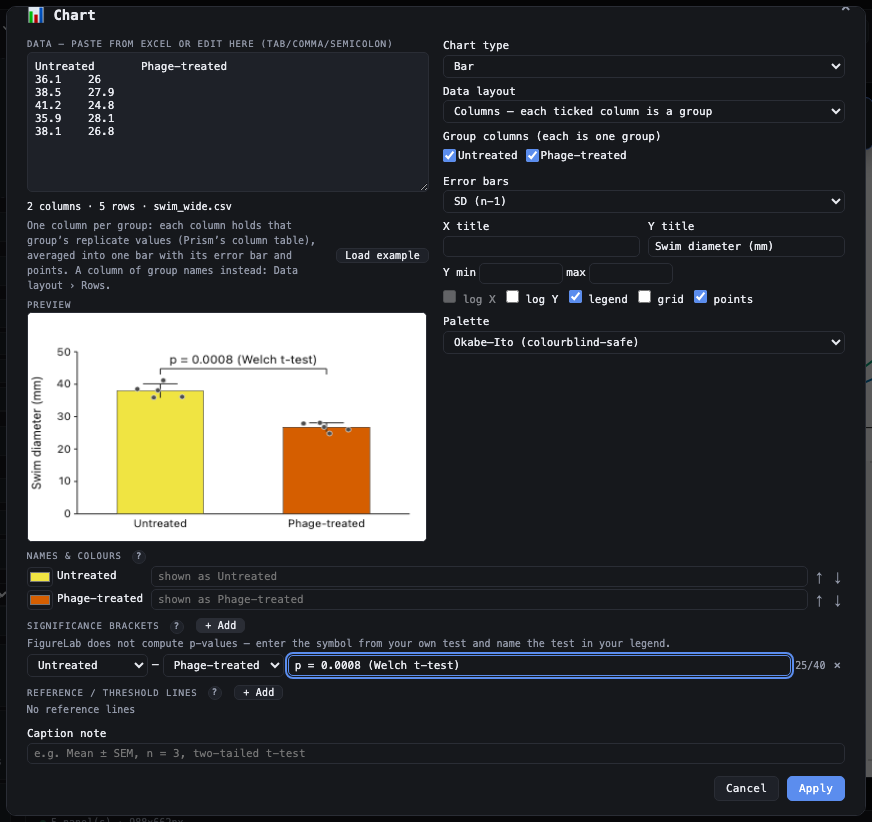
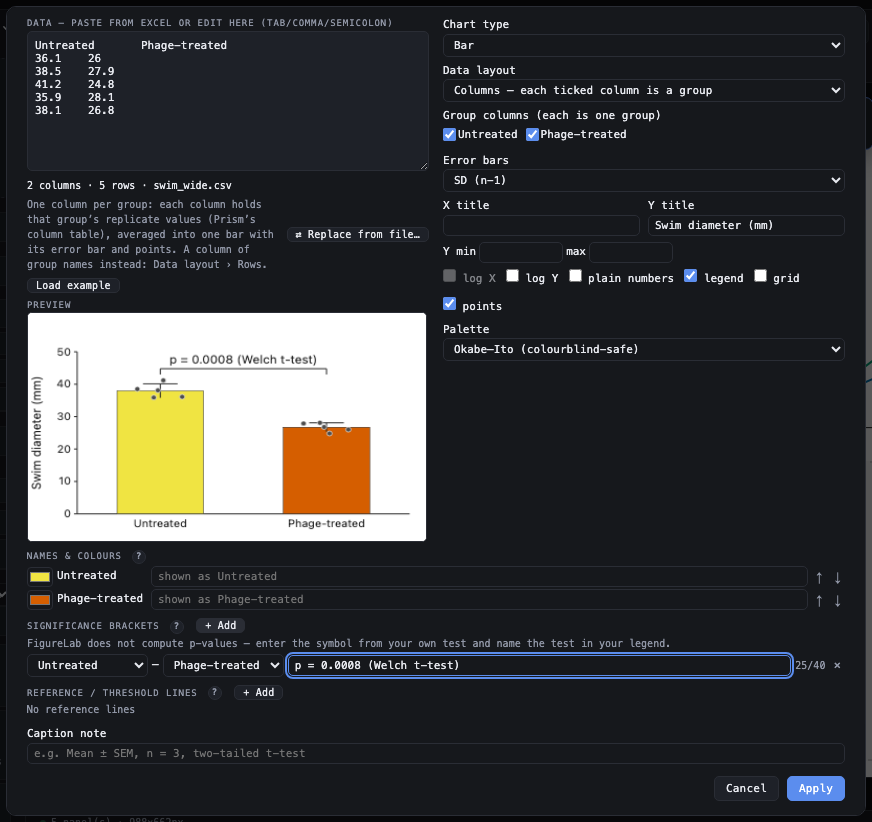
Charts guide, round 5: brackets follow their groups and can join two bars of one group, Tecan/Gen5 exports as written, zeros on a log axis and plain numbers, Chart room's button, more replicate headers, the font in paper_style.json

diff --git a/docs/guides/verify/charts.verify.js b/docs/guides/verify/charts.verify.js
@@ -286,6 +286,8 @@ const TRUTH = {
     await L.openSection(T, 'Export');
     const key = await p.evaluate(() => document.getElementById('key-text') ? document.getElementById('key-text').value || document.getElementById('key-text').textContent : '');
     expect(/WT \(blue, filled bars\)/.test(key) && (key.match(/ΔfliC/g) || []).length === 1, key);
+    // ux5 (charts5-10): the key follows the order of the chart last reordered (dfliC moved first in N0)
+    expect(key.indexOf('ΔfliC') < key.indexOf('WT ('), 'key order: ' + key);
     return key.slice(0, 160) + '…';
   });
   await step(T, 'N3 MOI_0 (panel B) and "MOI 0 mean" (panel D) share one colour and one key row; shown as "MOI 0" in B the row reads MOI 0', async () => {
@@ -338,7 +340,7 @@ const TRUTH = {
     await h.scrollIntoViewIfNeeded();
     const b1 = await h.boundingBox(), b2 = await btn(T, '⬇ Save as paper_style.json').boundingBox();
     await L.shot(T, 'charts-sample-colours', { x: b1.x - 6, y: b1.y - 6, width: 296, height: b2.y + b2.height - b1.y + 12 }, { doc: true });
-    return `${Object.keys(pal).length} names; toast "${t}"`;
+    return `${Object.keys(pal).length} names; font_family ${JSON.stringify(js.settings.font_family)}; toast "${t}"`;
   });
   await step(T, 'S2 × beside WT puts it back on the palette', async () => {
     await p.locator('#sample-colours-list [data-name="WT"] button', { hasText: '×' }).click();
@@ -669,6 +671,197 @@ const TRUTH = {
     const a = await drawn('A');
     expect(a.dfliC && a.dfliC.name === 'Δ*fliC*' && a.dfliC.color.toLowerCase() === saved.sample_palette.dfliC.toLowerCase(), JSON.stringify(a) + ' | ' + JSON.stringify(saved));
     return `dfliC drawn as "${a.dfliC.name}" ${a.dfliC.color}; summary "${sum.slice(0, 300)}"`;
+  });
+
+  // ---- ux5: round-5 steps (after S4: a new figure, chart A = cfu_24h.csv with the lab style) ----
+  const sigSec = () => chart.locator('.sec-lbl', { hasText: 'Significance brackets' }).locator('xpath=..');
+  const sigMenus = () => chart.locator('#chart-sig-list > div').evaluateAll(R => R.map(r => [...r.querySelectorAll('select')].map(s => s.selectedOptions[0] ? s.selectedOptions[0].text : '')));
+  const captionNow = () => p.evaluate(() => { images.forEach(im => { if (im && im.type === 'chart') { im._chartKey = ''; im._chartStat = null; } }); render(); return _captionText(); });
+  const openPanel = async (label) => { const pt = await panelPoint(label); await p.mouse.dblclick(pt.x, pt.y); await chart.waitFor({ state: 'visible' }); await p.waitForTimeout(300); };
+
+  await step(T, 'R5.1 Task 5/6: a bracket WT – dmotA, then ↑ on dmotA in Names & colours: the bracket keeps WT and dmotA (menus and caption)', async () => {
+    await openPanel('A');
+    await sigSec().getByRole('button', { name: '+ Add' }).click(); await p.waitForTimeout(200);
+    const row = chart.locator('#chart-sig-list > div').last();
+    await row.locator('select').nth(0).selectOption({ label: 'WT' });
+    await row.locator('select').nth(1).selectOption({ label: 'dmotA' });
+    await row.locator('input[type=text]').fill('p = 0.03');
+    await apply();
+    await openPanel('A');
+    const order0 = await chart.locator('#chart-names [data-key]').evaluateAll(r => r.map(e => e.dataset.key));
+    await chart.locator('#chart-names [data-key="dmotA"] button', { hasText: '↑' }).click(); await p.waitForTimeout(300);
+    const order1 = await chart.locator('#chart-names [data-key]').evaluateAll(r => r.map(e => e.dataset.key));
+    const menus = await sigMenus();
+    await apply();
+    const cap = await captionNow();
+    expect(order1.join() !== order0.join() && menus.length === 1 && menus[0].join('|') === 'WT|dmotA' && /Brackets: p = 0\.03 \(WT vs dmotA\)/.test(cap), JSON.stringify({ order0, order1, menus }) + ' | ' + cap);
+    return `order ${order0.join(', ')} → ${order1.join(', ')}; menus ${menus[0].join(' – ')}; caption "${(cap.match(/Brackets: [^,]*\)/) || [''])[0]}"`;
+  });
+
+  await step(T, 'R5.2 A bracket whose group is gone: dmotA\'s rows taken out of the data box → "⚠ Not drawn: dmotA is no longer in the chart"; Cancel', async () => {
+    await openPanel('A');
+    const ta = chart.locator('#chart-data-ta');
+    const t0 = await ta.inputValue();
+    await ta.fill(t0.split('\n').filter(l => !/^dmotA[\t,]/.test(l)).join('\n')); await p.waitForTimeout(800);
+    const why = (await chart.locator('#chart-sig-list').innerText()).replace(/\s+/g, ' ');
+    await chart.getByRole('button', { name: 'Cancel' }).click(); await p.waitForTimeout(300);
+    expect(/⚠ Not drawn: dmotA is no longer in the chart — pick its groups again, or remove it\./.test(why), why);
+    return why.slice(why.indexOf('⚠'));
+  });
+
+  await step(T, 'R5.3 A bracket within one group: grouped bar (serum × strain), the menus list "NHS · PA14"; NHS · PA14 – NHS · dlasR is captioned', async () => {
+    CSV['serum_killing.csv'] = 'serum,strain,replicate,survival_pct\n' + [['NHS', { PA14: [64.3, 59.8, 54.3], dlasR: [21.0, 25.4, 23.1] }], ['HI-NHS', { PA14: [98.2, 101.5, 96.7], dlasR: [97.0, 99.1, 102.3] }]]
+      .flatMap(([s, o]) => Object.entries(o).flatMap(([st, v]) => v.map((x, i) => `${s},${st},${i + 1},${x}`))).join('\n') + '\n';
+    const d = await importCsv('serum_killing.csv');
+    expect(d.kind === 'Grouped bar' && d.x === 'serum' && d.series === 'strain', JSON.stringify(d));
+    await sigSec().getByRole('button', { name: '+ Add' }).click(); await p.waitForTimeout(200);
+    const row = chart.locator('#chart-sig-list > div').last();
+    const opts = await row.locator('select').first().locator('option').allInnerTexts();
+    expect(['NHS', 'NHS · PA14', 'NHS · dlasR', 'HI-NHS', 'HI-NHS · PA14'].every(o => opts.includes(o)), opts.join(' | '));
+    await row.locator('select').nth(0).selectOption({ label: 'NHS · PA14' });
+    await row.locator('select').nth(1).selectOption({ label: 'NHS · dlasR' });
+    await row.locator('input[type=text]').fill('p = 0.01');
+    await apply();
+    const cap = await captionNow();
+    expect(/Brackets: p = 0\.01 \(NHS · PA14 vs NHS · dlasR\)/.test(cap), cap);
+    return `menus: ${opts.join(', ')}; caption "Brackets: p = 0.01 (NHS · PA14 vs NHS · dlasR)…"`;
+  });
+
+  await step(T, 'R5.4 Zeros on a log axis: dmexB 0, 100, 0 at 8 h is a mean of 33.3 with n = 3; an all-zero 24 h point is drawn at the floor, open, and said', async () => {
+    CSV['timekill_zeros.csv'] = 'time_h,PA14_rep1,PA14_rep2,PA14_rep3,dmexB_rep1,dmexB_rep2,dmexB_rep3\n0,4.3E+06,2.5E+06,3.9E+06,3.4E+06,3.0E+06,5.1E+06\n2,6.0E+04,1.3E+05,8.1E+04,7.1E+03,6.1E+03,1.0E+04\n4,5.7E+03,7.7E+03,5.1E+03,3.9E+02,5.7E+02,4.2E+02\n8,8.0E+02,9.0E+02,3.6E+02,0,1.00E+02,0\n24,6.0E+03,2.7E+03,5.8E+03,0,0,0\n';
+    const d = await importCsv('timekill_zeros.csv');
+    expect(d.kind === 'Line' && /\[ticked\]/.test(d.rep), JSON.stringify(d));
+    await chart.getByLabel('log Y').check(); await p.waitForTimeout(300);
+    await apply();
+    const label = (await charts()).pop().label;
+    const r = await p.evaluate((label) => { const el = images.find(im => im && im.label === label); el._chartKey = ''; el._chartStat = null;
+      const s = _chartStatsCached(el).series.find(q => /dmexB/.test(q.name || q.key)); const T = [];
+      _chartDraw(el, { rect() {}, poly() {}, line() {}, circle() {}, text(t) { T.push(String(t)); } });
+      return { p8: s.points.find(q => q.x === 8), p24: s.points.find(q => q.x === 24), note: T.find(t => /axis floor/.test(t)) || '', omitted: T.some(t => /omitted/.test(t)) }; }, label);
+    const cap = await captionNow();
+    expect(Math.abs(r.p8.y - 100 / 3) < 1e-9 && r.p8.n === 3 && r.p24.y === 0 && r.p24.n === 3, JSON.stringify(r));
+    expect(/^○ 1 mean ≤ 0 drawn at the axis floor \(.+\), open$/.test(r.note) && !r.omitted, 'note: ' + r.note);
+    expect(/On the log axis, 1 mean ≤ 0 is drawn at the axis floor \([^)]+\) as open marks; means and n include them\./.test(cap), cap);
+    return `8 h: ${r.p8.y.toFixed(1)} (n = ${r.p8.n}); 24 h: ${r.p24.y} (n = ${r.p24.n}); chart note "${r.note}"; caption "${(cap.match(/On the log axis[^.]*\./) || [''])[0]}"`;
+  });
+
+  await step(T, 'R5.5 "plain numbers" beside log Y: the log axis reads 1, 10, 100 … with no 10ⁿ', async () => {
+    const label = (await charts()).pop().label;
+    await openPanel(label);
+    await chart.getByLabel('plain numbers').check(); await p.waitForTimeout(300);
+    await apply();
+    const labs = await p.evaluate((label) => { const el = images.find(im => im && im.label === label); el._chartKey = ''; const T = []; _chartDraw(el, { rect() {}, line() {}, poly() {}, circle() {}, text(s, x, y, f, c, a) { if (a === 'right') T.push(String(s)); } }); return T; }, label);
+    expect(labs.some(l => /^1\s000\s000$/.test(l)) && !labs.some(l => /\^\{|×10|[⁰¹²³⁴⁵⁶⁷⁸⁹]/.test(l)), labs.join(' | '));
+    return 'y labels ' + labs.join(', ');
+  });
+
+  await step(T, 'R5.6 A plate reader\'s export as the reader wrote it: a 26-line Tecan header, wells in rows, Time [s] and Cycle Nr. → a line of every well against Time (h)', async () => {
+    const head = ['Application: Tecan i-control,,', 'Tecan i-control ,3.9.1.0,', 'Device: infinite 200Pro,Serial number: 1408003921,', 'Firmware: V_3.37_07/12_Infinite (Jul 13 2012/10.49.58),', 'MAI, V_3.37_07/12_Infinite (Jul 13 2012/10.49.58),', ',,',
+      'Date:,11/12/2026,', 'Time:,9:14:22 AM,', ',,', 'System,TECAN-PC,', 'User,TECAN-PC\\Lab,', 'Plate,Greiner 96 Flat Bottom Transparent Polystyrene,', 'Plate-ID (Stacker),,', ',,',
+      'Shaking (Orbital) Duration:,600,s', 'Shaking (Orbital) Amplitude:,3,mm', 'Kinetic Measurement,,', 'Kinetic Cycles:,25,', 'Interval Time:,00:15:00,', 'Mode,Absorbance,', 'Measurement Wavelength,600,nm', 'Bandwidth,9,nm', 'Number of Flashes,25,', 'Settle Time,0,ms', 'Start Time:,11/12/2026 9:14:22 AM,', ',,'];
+    const n = 25, t = [...Array(n)].map((_, i) => (i * 900 + (i ? 0.4 : 0)).toFixed(1).replace(/\.0$/, ''));
+    const wells = ['A1', 'A2', 'A3', 'B1', 'B2', 'B3', 'C1', 'C2', 'C3', 'D1', 'D2', 'D3'];
+    const od = (w, i) => (w[0] === 'A' ? 0.09 : 0.1 * Math.exp((w[0] === 'B' ? 0.5 : w[0] === 'C' ? 0.35 : 0.2) * i / 4)).toFixed(4);
+    CSV['tecan_OD600_rows.csv'] = [...head, 'Cycle Nr.,' + t.map((_, i) => i + 1).join(','), 'Time [s],' + t.join(','), 'Temp. [°C],' + t.map(() => '37.1').join(','),
+      ...wells.map(w => w + ',' + t.map((_, i) => od(w, i)).join(',')), ',,', 'End Time:,11/12/2026 3:14:22 PM,'].join('\n') + '\n';
+    const d = await importCsv('tecan_OD600_rows.csv');
+    const info = (await chart.locator('#chart-delim-info').innerText()).replace(/\s+/g, ' ');
+    const plate = (await chart.locator('#chart-wells-wrap').innerText()).replace(/\s+/g, ' ');
+    const xt = await chart.locator('#chart-xtitle').inputValue();
+    const xs = await p.evaluate(() => _chartDraft.data.rows.map(r => r[_chartDraft.mapping.xCol]));
+    expect(d.kind === 'Line' && d.x === 'Time (h)' && xt === 'Time (h)' && d.ycols.join() === wells.join(), JSON.stringify(d) + ' X title ' + xt);
+    expect(/26 instrument lines above the table skipped \(it starts at “Cycle Nr\.”\)/.test(info) && /the wells ran down the rows: turned to one column per well/.test(info)
+      && /1 line below it \(“End Time”\) left out/.test(info) && /Time \[s\] read as seconds, in hours \(Time \(h\)\)/.test(info), info);
+    expect(/Plate wells \(12: A1–D3\)/.test(plate), plate);
+    expect(xs.length === n && xs[0] === 0 && Math.abs(xs[n - 1] - 21600.4 / 3600) < 1e-6, 'x: ' + xs.slice(-2));
+    await apply();
+    return `"${info}"; X ${d.x} (0 → ${xs[n - 1].toFixed(3)} h); Y ${d.ycols.length} wells, no Cycle Nr. or Temp.`;
+  });
+
+  await step(T, 'R5.7 Replicate headers Culture1–3 average into one bar per condition; a file named swim_diameters_mm.csv gives the Y title "swim diameters (mm)"', async () => {
+    CSV['psd95_puncta.csv'] = 'Condition,Culture1,Culture2,Culture3\nshCtrl,9.8,10.04,9.59\nshNlgn1,4.75,4.92,4.71\nRescue,8.94,9.91,8.56\n';
+    const d = await importCsv('psd95_puncta.csv');
+    expect(d.kind === 'Bar' && d.x === 'Condition' && /Average replicate columns into one series each \(Mean: 3\) \[ticked\]/.test(d.rep), JSON.stringify(d));
+    await apply();
+    const label = (await charts()).pop().label;
+    const g = await p.evaluate((label) => { const el = images.find(im => im && im.label === label); el._chartKey = ''; el._chartStat = null; return _chartStatsCached(el).groups.map(q => [q.key, q.bars[0].value, q.bars[0].n]); }, label);
+    expect(Math.abs(g[0][1] - mean([9.8, 10.04, 9.59])) < 1e-9 && g[0][2] === 3, JSON.stringify(g));
+    CSV['swim_diameters_mm.csv'] = 'Strain,Rep 1,Rep 2,Rep 3\r\nWT,41.5,44.0,39.5\r\ndfliC,6.0,5.5,6.5\r\ndfliC + pfliC,33.0,30.5,35.0\r\n,,,\r\n';
+    const d2 = await importCsv('swim_diameters_mm.csv');
+    expect(d2.kind === 'Bar' && d2.ytitle === 'swim diameters (mm)' && /\[ticked\]/.test(d2.rep), JSON.stringify(d2));
+    await apply();
+    return `${d.rep}; shCtrl ${g[0][1].toFixed(3)} (n = ${g[0][2]}); swim_diameters_mm.csv: Y title "${d2.ytitle}"`;
+  });
+
+  await step(T, 'R5.8 ⇄ Replace from file… in the Chart dialog reads a new file into the chart; the caption names the new file', async () => {
+    CSV['swim_diameters_mm_v2.csv'] = 'Strain,Rep 1,Rep 2,Rep 3\nWT,42.0,43.5,40.5\ndfliC,6.5,5.0,6.0\ndfliC + pfliC,34.0,31.5,33.0\n';
+    const label = (await charts()).pop().label;
+    await openPanel(label);
+    await L.pickFiles(T, chart.getByRole('button', { name: '⇄ Replace from file…' }), [file('swim_diameters_mm_v2.csv')]);
+    await p.waitForTimeout(600);
+    const info = await chart.locator('#chart-delim-info').innerText();
+    await apply();
+    const cap = await captionNow();
+    expect(/swim_diameters_mm_v2\.csv/.test(info) && /Data from swim_diameters_mm_v2\.csv\./.test(cap) && !/edited in FigureLab/.test(cap), info + ' | ' + cap);
+    return `dialog "${info.replace(/\s+/g, ' ')}"; caption "Data from swim_diameters_mm_v2.csv."`;
+  });
+
+  await step(T, 'R5.9 A squeezed chart (4 pictures + a chart in a 3 × 2 grid, ⌘K asm, printed width 83 mm): Chart room names it, and its "Give E a … cell" button gives it the cell and the row it needs', async () => {
+    await btn(T, '✕ New').click(); await btn(T, /^Confirm/).click(); await p.waitForTimeout(500);
+    const pics = [];
+    for (let i = 0; i < 4; i++) pics.push(await L.canvasImage(T, path.join(inp, `photo_${i}.png`), 400, 300, (c, w, h, rnd) => { c.fillStyle = '#ddd'; c.fillRect(0, 0, w, h); for (let k = 0; k < 60; k++) { c.fillStyle = `hsl(${rnd() * 360},50%,40%)`; c.fillRect(rnd() * w, rnd() * h, 20, 20); } }, { seed: i + 3 }));
+    await L.pickFiles(T, dropZone(), pics); await p.waitForTimeout(800);
+    await importCsv('swim_diameters_mm.csv'); await apply();
+    // the chart in one cell of a 3 × 2 grid (Arrange › Columns 3, Rows 2)
+    await L.openSection(T, 'Arrange');
+    await p.locator('#cols').fill('3'); await p.locator('#cols').press('Tab');
+    await p.locator('#rows').fill('2'); await p.locator('#rows').press('Tab'); await p.waitForTimeout(500);
+    const hits = await L.cmdk(T, 'asm'); await p.waitForTimeout(600);
+    const tj = await p.locator('#target-journal').inputValue().catch(() => '?');
+    await L.openSection(T, 'Export');
+    await p.locator('#export-width-mm').selectOption({ value: '83' });
+    await p.waitForTimeout(800);
+    await L.openSection(T, 'Check');
+    await btn(T, '✓ Check journal compliance').click();
+    const rep = p.locator('#info-modal-bg'); await rep.waitFor({ state: 'visible' });
+    const repText = await rep.innerText();
+    const row = (repText.match(/Chart room\n([^\n]*)/) || [])[1] || '';
+    const b = rep.locator('button', { hasText: /^Give E a (taller|wider|bigger) cell$/ });
+    const bl = (await b.count()) ? (await b.first().innerText()).trim() : '';
+    expect(/E: /.test(row) && bl, `hits ${hits.slice(0, 3).join(' / ')}; journal ${tj}; row: ${row} | button ${bl} | report: ${repText.replace(/\s+/g, ' ').slice(0, 600)}`);
+    await L.toasts(T);
+    await b.first().click(); await p.waitForTimeout(800);
+    const t = await L.toasts(T);
+    if (await rep.isVisible()) await p.keyboard.press('Escape');
+    const g = await p.evaluate(() => { const el = images.find(im => im && im.type === 'chart'); return { cs: el.colSpan || 1, rs: el.rowSpan || 1, cols: cols.value, rows: rows.value }; });
+    expect(/^E now spans \d × \d cells — 1 row added to the grid for it \(Ctrl\/⌘\+Z undoes it\)/.test(t) && g.rs === 2, t + ' | ' + JSON.stringify(g));
+    return `row "${row.slice(0, 220)}"; button "${bl}"; toast "${t}"; grid ${g.cols} × ${g.rows}`;
+  });
+
+  await step(T, 'R5.10 Row span 2 on a chart in the grid\'s last row: the toast says it needs another row and its "Add 1 row" button adds it', async () => {
+    await p.keyboard.press('ControlOrMeta+z'); await p.waitForTimeout(600);
+    const g0 = await p.evaluate(() => ({ rs: images.find(im => im && im.type === 'chart').rowSpan || 1, rows: rows.value }));
+    expect(g0.rs === 1, 'undo did not take the span back: ' + JSON.stringify(g0));
+    const idx = await p.evaluate(() => images.findIndex(im => im && im.type === 'chart'));
+    const rowEl = p.locator('#img-list > *').nth(idx);
+    await rowEl.locator('button', { hasText: '⚙' }).click(); await p.waitForTimeout(300);
+    const rs = rowEl.locator('.f-rowspan');
+    await L.toasts(T);
+    await rs.fill('2'); await p.waitForTimeout(500);
+    const t = await L.toasts(T);
+    expect(/E is in the grid's last row — Row span 2 needs 1 more row \(Arrange › Rows\)/.test(t), 'toast: ' + t);
+    await p.locator('#toast').getByRole('button', { name: 'Add 1 row' }).click(); await p.waitForTimeout(500);
+    const r1 = await p.evaluate(() => rows.value);
+    expect(+r1 === +g0.rows + 1, `rows ${g0.rows} → ${r1}`);
+    return `toast "${t}"; Add 1 row: rows ${g0.rows} → ${r1}`;
+  });
+
+  await step(T, 'R5.11 Under ASM (Arial), Look › Sample colours › ⬇ Save as paper_style.json writes the font with the colours (font_family)', async () => {
+    await L.openSection(T, 'Look');
+    const f = await L.download(T, () => btn(T, '⬇ Save as paper_style.json').click(), /paper_style\.json$/);
+    const js = JSON.parse(fs.readFileSync(f, 'utf8')).settings;
+    expect(js.font_family === 'Arial' && js.sample_palette && Object.keys(js.sample_palette).length, JSON.stringify(js));
+    return `font_family "${js.font_family}", ${Object.keys(js.sample_palette).length} colours`;
   });
 
   await L.finish(T);

diff --git a/docs/guides/charts.md b/docs/guides/charts.md
@@ -8,7 +8,7 @@
 - One CSV (or TSV, or cells copied from Excel) per chart. Any of the layouts in Task 1 works.
 - Optional: a `paper_style.json` from CFU Plot Studio or another FigureLab figure, to share sample colours across the paper.
 
-Every step below was followed through the app's own buttons by [`verify/charts.verify.js`](verify/charts.verify.js), on fourteen generated CSVs whose true means and SDs are known. The plotted values in the source data matched them, and so did a source-data file dropped back in.
+Every step below was followed through the app's own buttons by [`verify/charts.verify.js`](verify/charts.verify.js), on twenty generated CSVs (one a Tecan export with its instrument header) whose true means and SDs are known. The plotted values in the source data matched them, and so did a source-data file dropped back in.
 
 ---
 
@@ -17,7 +17,7 @@ Every step below was followed through the app's own buttons by [`verify/charts.v
 1. In **Images**, click **Drop or click to add images** and pick your CSV (or drag it onto the figure). The drop zone reads "CSV/TSV → chart".
 2. The chart is already the next lettered panel of the grid: the toast says, for example, "Imported 9 rows from cfu_24h.csv — chart panel A in the grid". The **📊 Chart** dialog opens on it with a guess at the mapping and a **Preview**. The line under the data box says what was read, for example `3 columns · 9 rows · cfu_24h.csv`.
 3. Check the mapping fields on the right: **Chart type**, **X / category column**, **Y columns**, and **Series (group) column** for tidy data (see the table below). Bar, box, violin and beeswarm charts also have **Data layout**; line and scatter charts do not. If the mapping leaves out a text column whose values differ within a group, the line under the data box names it, for example "⚠ strain not used: 3 strain values (PA14, dlasR, dmexB) averaged together per group — pick strain as Series to show them apart".
-4. The **Y title** starts as the value column's name (`cfu_per_ml`); type your own (`CFU/mL`).
+4. The **Y title** starts as the value column's name (`cfu_per_ml`); type your own (`CFU/mL`). Replicate columns have no value column to name it: a file named for its unit gives the title (`swim_diameters_mm.csv` → "swim diameters (mm)"), and any other starts empty. A plate reader's time column becomes the **X title**, `Time (h)`.
 5. Click **Apply** to keep your settings (the toast says "Chart updated"). The figure stays a grid: lane tables, headings and automatic letters keep working.
 
 **Cancel** on a chart you have just dropped takes it away again ("Cancelled — the chart was not added"), and the grid keeps its size.
@@ -32,12 +32,12 @@ Every step below was followed through the app's own buttons by [`verify/charts.v
 | **Tidy with a series column**: `time_min, MOI, replicate, OD600` | Chart type **Line**, X `time_min`, **Series (group) column** `MOI`, Y `OD600`. One averaged line per MOI. | guessed this way on import, with two MOIs and with three (0, 1, 10) |
 | **Tidy with two text columns**: `antibiotic, strain, replicate, MIC_ug_per_ml` | Chart type **Grouped bar**, X `antibiotic`, **Series (group) column** `strain`: one bar per strain within each antibiotic. With Series **— none —** the strains would be averaged together, and the line under the data box says so. | guessed this way on import |
 | **Replicate columns**: `time_min, MOI_0_r1, MOI_0_r2, MOI_0_r3, MOI_1_r1…` | Chart type **Line**, tick **Average replicate columns into one series each**. It shows what it grouped: `(MOI_0: 3, MOI_1: 3)`. | guessed and ticked on import |
-| **Replicate columns, one row per condition** (Prism or Excel): `condition, Rep1, Rep2, Rep3` | Chart type **Bar**, X `condition`, **Average replicate columns into one series each** ticked (it reads `(Mean: 3)`), **SD (n−1)** and **points**: one bar per condition with its mean, SD and replicate dots. | guessed and ticked on import |
+| **Replicate columns, one row per condition** (Prism or Excel): `condition, Rep1, Rep2, Rep3` | Chart type **Bar**, X `condition`, **Average replicate columns into one series each** ticked (it reads `(Mean: 3)`), **SD (n−1)** and **points**: one bar per condition with its mean, SD and replicate dots. Columns numbered by what was repeated are read the same way: `Rep 1`, `Culture1`, `Mouse 1`, `Donor3`, `Run 1`, Excel's `Column1`. | guessed and ticked on import, with `Rep1…`, `Rep 1…` and `Culture1…` |
 | **Mean and SD columns**: `time_min, MOI 0 mean, MOI 0 SD, MOI 1 mean, MOI 1 SD` | **Error bars** › **from a column**. One picker per series appears, already paired by name (MOI 0 mean → MOI 0 SD). Leave the SD columns unticked under Y columns. | guessed and paired on import |
 | **Wide, one column per group** (Prism column table): `Untreated, Phage-treated` | Chart type **Bar**, **Data layout** › **Columns — each ticked column is a group**, every group ticked under **Group columns (each is one group)**. | guessed this way on import |
 | **European CSV**: `;` separators, decimal commas, a second header row of units | Nothing. `12,5` is read as 12.5, and the units row goes into the axis title (`Durchmesser (mm)`). The status line says `units row: Durchmesser mm`. A tidy file with German headers (`Stamm;Replikat;Biofilm`) gives a bar per strain: `Replikat` is read as the replicate number. | read this way on import |
 | **A source-data file FigureLab wrote** (Task 8) | Nothing: the `#` lines and the Plotted values block are skipped. | read back on import |
-| **A plate reader's export**: `Time` (h:mm:ss, h:mm, minutes or hours), a temperature column, `A1`, `A2` … one column per well | A **Line** chart of every well against time, with a **Plate wells** row that groups wells by plate row or column and subtracts a blank. See [A plate reader's export](phage-and-microbiology.md#a-plate-readers-export) in the phage guide. | read this way on import, from 11 to 49 time points, with and without a blank row |
+| **A plate reader's export**, as the reader wrote it: `Time` (h:mm:ss, h:mm, minutes, hours, or Tecan's `Time [s]`), a temperature column, `A1`, `A2` … one per well, in columns or in rows, with or without the block of instrument settings above the table (Tecan i-control, BioTek Gen5) | Nothing. A **Line** chart of every well against `Time (h)`, with a **Plate wells** row that groups wells by plate row or column and subtracts a blank. `Cycle Nr.` and the temperature are not plotted. The line under the data box says what was skipped or turned, for example "26 instrument lines above the table skipped (it starts at “Cycle Nr.”); the wells ran down the rows: turned to one column per well; 1 line below it (“End Time”) left out" and "Time [s] read as seconds, in hours (Time (h))". See [A plate reader's export](phage-and-microbiology.md#a-plate-readers-export) in the phage guide. | read this way on import, from 11 to 49 time points, with and without a blank row; a Tecan export with its header, wells in rows and Time [s] |
 
 ### Other ways to add a chart
 
@@ -50,7 +50,7 @@ Every step below was followed through the app's own buttons by [`verify/charts.v
 
 1. Open the chart (see Task 4) and set **Error bars**: **SD (n−1)**, **SEM (SD/√n)**, **from a column**, or **none**.
 2. SD and SEM are computed from the rows (or replicate columns) that share a group, or an x on a line chart.
-3. Tick **points** to draw every replicate over the bar.
+3. Tick **points** to draw every replicate over the bar. On a line chart **points** puts a marker on each mean, not on the replicates.
 4. **Box & whisker**, **Violin** and **Beeswarm (dots)** with a **Series (group) column** draw each series side by side within its category, in the series' colour. A beeswarm draws the mean as a short horizontal line and its whisker follows **Error bars** (SD, SEM or none); the caption says so ("Each dot is one value; the line marks the mean, whiskers ± SD (n−1)").
 5. Tick or untick **legend** and **grid** as you need. If you place the figure's legend key (see [journal-submission.md](journal-submission.md)), untick each chart's **legend** so the colours are explained once.
 
@@ -64,6 +64,8 @@ On the test data the plotted values in the source data equal the true values: WT
 
 1. **Log axis.** Tick **log Y** (or **log X** on line and scatter charts). Bars start at the axis floor, and the axis snaps to whole decades. Decades between 0.001 and 10 000 are written as plain numbers (0.01, 0.1, 1, 10 on the MIC test); wider ranges are labelled 10ⁿ (10⁸, 10⁹, 10¹⁰ on the CFU test).
    - **Stacked bar** greys out **log Y** and says why: "Stacked bars cannot be read on a log axis (the segments would not add up) — use Grouped bar".
+   - **plain numbers**, beside **log Y**, labels the axis 1, 10, 100 … 1 000 000 instead of 10ⁿ, so no label has a small superscript.
+   - **Zeros on a log axis.** A replicate of 0 (no colonies) is kept: it is averaged with the others, so 0, 100 and 0 make a mean of 33.3 with n = 3. A mean of 0 or less has no place on a log axis, so it is drawn at the axis floor as an open mark, and the chart says so under the plot ("○ 1 mean ≤ 0 drawn at the axis floor (…), open"), as do the caption ("On the log axis, 1 mean ≤ 0 is drawn at the axis floor (…) as open marks; means and n include them.") and the source data. If your method has a detection limit, you may prefer to enter values below it as the limit and say so in the legend.
 2. **Axis limits.** Type **Y min** and **max** (and **X min** / **max** on line and scatter charts). Leave them empty to fit the data.
 3. Values outside the limits are not drawn, and the chart says how many in red under the plot, for example "1 value outside the axis range not shown". This note is part of the figure; widen the limits if you do not want it there.
 
@@ -79,17 +81,19 @@ Any of these opens the same **📊 Chart** dialog on that panel:
 
 The preview follows every change. **Apply** keeps the changes; **Cancel** (or Esc) leaves the chart exactly as it was.
 
+**New data for the same chart.** **⇄ Replace from file…** (under the data box, or right-click the chart › **⇄ Replace data from file…**) reads a new CSV into the chart. With the same columns its settings, names and brackets stay, and the caption names the new file ("Data from swim_diameters_mm_v2.csv.").
+
 ---
 
 ## Task 5: A significance bracket
 
 1. In the dialog, under **Significance brackets**, click **+ Add**.
-2. Pick the two groups in the two menus (for example **Untreated** – **Phage-treated**).
+2. Pick the two groups in the two menus (for example **Untreated** – **Phage-treated**). On a grouped bar (or a box, violin or beeswarm with a **Series** column) the menus also list each bar of a group, so a bracket can join two strains within one condition: **NHS · PA14** – **NHS · dlasR**. The caption then reads "Brackets: p = 0.01 (NHS · PA14 vs NHS · dlasR)".
 3. Type the label from your own test, up to 40 characters (a counter beside the box shows how many, e.g. `25/40`): `*`, `n.s.`, or `p = 0.0008 (Welch t-test)`. FigureLab does not compute p-values; name the test in your legend. On a small two-group chart a long label can run wider than the plot; there, write `p = 0.0008` and name the test in the legend.
-4. **Apply.** The bracket sits above the highest point, whisker or bar of the two groups. Bar, box, violin and beeswarm charts draw brackets.
+4. **Apply.** The bracket sits above the highest point, whisker or bar of the two groups. Bar, box, violin and beeswarm charts draw brackets. The bracket icon in **Annotate & Draw** does the same for a chart in the grid: it opens the chart's dialog with a new bracket row.
 5. Two brackets that share a group or overlap are stacked, one above the other, so their labels stay apart (in the test, `p = 0.011` and `p = 0.022` on three strains). The caption lists them: "Brackets: p = 0.011 (ΔfliC vs WT); p = 0.022 (WT vs dmotA), from the author’s own statistical test."
 
-Order your groups (Task 6) before you add brackets: a bracket remembers the two positions, so moving a group afterwards changes which pair it joins.
+A bracket remembers its two groups by name, so you can reorder or rename groups after adding it (Task 6). If one of its groups leaves the chart (its rows deleted from the data, or two groups given one name), the bracket is not drawn on another pair: the dialog says "⚠ Not drawn: dmotA is no longer in the chart — pick its groups again, or remove it.", and the chart, caption, source data and the compliance check's **Brackets** row say so too.
 
 ![The Chart dialog for a wide table: Bar, Data layout Columns, SD error bars with points, and a bracket labelled p = 0.0008 (Welch t-test)](img/charts-dialog.png)
 
@@ -103,7 +107,7 @@ The **Names & colours** list in the dialog has one row per group or series.
 
 1. **Swatch:** sets that sample's colour in every chart of the figure and in the legend key.
 2. **shown as:** the name every chart of the figure shows for that sample, in their legends and in the key, for example `Δ*fliC*` for `dfliC` (`*…*` is italic). The toast names the other panels that changed: "Chart updated — the new name also shows in panel F". The data keep their name, so the colour and the lab style still match it; the source data give both names (Task 8).
-3. **↑ ↓:** move a group left or right. Its colour stays: a sample's colour is fixed by its name the first time it is drawn, so reordering groups or adding chart panels does not recolour anything.
+3. **↑ ↓:** move a group left or right. Its colour stays: a sample's colour is fixed by its name the first time it is drawn, so reordering groups or adding chart panels does not recolour anything. Brackets move with their groups: a bracket typed for WT – dmotA still joins WT and dmotA after ↑ on dmotA, in its menus and in the caption. The legend key follows the order of the chart you reordered last.
 
 ### Across the figure: Look › Sample colours
 
@@ -112,8 +116,8 @@ The **Names & colours** list in the dialog has one row per group or series.
 1. Open **Look** › **Sample colours**. Every sample in your charts has a row: the name the charts show, the data names behind it in brackets (`ΔfliC (dfliC)`), a swatch, and "palette" or **×**. The list follows your charts as you edit them.
 2. Change a swatch to recolour that sample in every chart and in the key.
 3. Click **×** beside a name to put it back on the chart palette.
-4. **⬇ Save as paper_style.json** saves every sample's colour, the palette ones too, and the **shown as** names, for the next figure. The toast counts them: "paper_style.json saved with 7 sample colours (1 set by hand, 6 from the palette; under 11 data names, so each name a sample is written as gets its colour; sample_palette and 2 shown-as names (sample_names))".
-5. **📄 Load lab style (paper_style.json)…** (at the end of Look) applies a lab style file: its font, its sample colours and its shown-as names. A summary says what was applied. Loading replaces the whole colour list, including colours you picked by hand. In the test, a new figure with the same CFU file, given the saved file, drew `dfliC` as Δ*fliC* again, in its saved colour.
+4. **⬇ Save as paper_style.json** saves every sample's colour, the palette ones too, the **shown as** names, and the figure's font once one is chosen (Arial, Helvetica or Times New Roman, from Typography or a journal preset; a figure still on the default font saves none), for the next figure. The toast counts them: "paper_style.json saved with 7 sample colours (1 set by hand, 6 from the palette; under 11 data names, so each name a sample is written as gets its colour; sample_palette and 2 shown-as names (sample_names))".
+5. **📄 Load lab style (paper_style.json)…** (at the end of Look) applies a lab style file: its font (if the file has one), its sample colours and its shown-as names. A summary says what was applied. Loading replaces the whole colour list, including colours you picked by hand. In the test, a new figure with the same CFU file, given the saved file, drew `dfliC` as Δ*fliC* again, in its saved colour.
 
 FigureLab reads `MOI_0`, `MOI 0` and `MOI 0 mean` as one sample: one row in Sample colours, one colour and one row in the key, even before you name it. **shown as** sets the name that row shows (here `MOI 0` in the replicate-column chart). A chart drawn from `… mean` columns has its own **shown as** box, filled in with the name without ` mean` (`MOI 0`).
 
@@ -127,7 +131,7 @@ One shown name is one sample: a colour follows the name a sample is shown as. In
 2. Set **Font family** (for example **Arial**) and **Text size** in pt (default 8).
 3. Chart text uses that font and size at the printed size (Text size also covers gene maps, scale-bar text and the legend key). On the test export, Text size 7 pt gave tick labels of 7.00 pt in Arial; axis titles are drawn slightly larger.
 4. Superscripts and subscripts (the 10ⁿ of a log axis, mL⁻¹, OD₆₀₀) print at 70 % of the text size. The compliance check's **Text size** row measures chart text and names the smallest superscript: at 7 pt the `10⁸` on the CFU axis was 4.9 pt, "below 5 pt". The row's **Text to 7.5 pt** button sets the text size that brings them to 5 pt.
-5. A journal preset (Look › **Target journal**) sets these for you; see [journal-submission.md](journal-submission.md). Under a journal with a larger minimum the button may not be offered: under PLOS ONE (8–12 pt) the `10⁸` printed 5.6 pt, and the row says "no text size clears both" (raising them to 8 pt would print the chart titles above 12 pt). It warns and does not fail; there is no plain-number option for a 10ⁿ axis, so keep them and say so to the journal, or write the values out in the data.
+5. A journal preset (Look › **Target journal**) sets these for you; see [journal-submission.md](journal-submission.md). Under a journal with a larger minimum the button may not be offered: under PLOS ONE (8–12 pt) the `10⁸` printed 5.6 pt, and the row says "no text size clears both" (raising them to 8 pt would print the chart titles above 12 pt). It warns and does not fail. On a log axis, tick **plain numbers** beside **log Y** in the Chart dialog: the axis reads 1, 10, 100 … with no superscripts (Task 3).
 
 ---
 
@@ -152,7 +156,9 @@ One shown name is one sample: a colour follows the name a sample is shown as. In
 - A table with two text columns (antibiotic × strain) is a **Grouped bar** with the second column as **Series**.
 - Added several CSVs at once? Double-click each chart to check its guess; the dialog opened only on the last.
 - After placing the figure's legend key, untick each chart's **legend** so the colours are explained once.
-- A chart in one grid cell at journal type size can be squeezed: the compliance check's **Chart room** row warns when a plot is squeezed too small or a legend name is cut off. Give the chart a column span of 2, or untick its **legend** when the figure's key lists the same names.
+- A chart in one grid cell at journal type size can be squeezed: the compliance check's **Chart room** row names a plot squeezed too small, tick labels, x numbers or group names that run together, a legend name cut at the panel edge, and a cut Y title. Its button (**Give E a taller cell**, a wider or a bigger one) spans the chart over more cells and adds the grid row they need: in the test, a chart in one cell of a 3 × 2 grid at 83 mm read "E: its plot is 3.9 mm tall (16% of the panel) …; group names run together (“WT”, “dfliC”) …", and **Give E a bigger cell** gave "E now spans 2 × 2 cells — 1 row added to the grid for it (Ctrl/⌘+Z undoes it)". Or untick its **legend** when the figure's key lists the same names.
+- **Row span 2** typed for a chart in the grid's last row says so: "E is in the grid's last row — Row span 2 needs 1 more row (Arrange › Rows)", with an **Add 1 row** button.
+- Kill curve with zero counts on a log axis: the zeros are averaged in and an all-zero point is drawn open at the axis floor (Task 3). Say in the legend how zero counts were treated.
 - More shortcuts: [tips-and-tricks.md](tips-and-tricks.md).
 
 ## If something looks wrong
@@ -161,5 +167,7 @@ One shown name is one sample: a colour follows the name a sample is shown as. In
 - **The strains of an MIC table are averaged into one bar.** The line under the data box says "⚠ strain not used …": pick `strain` as **Series (group) column** (Chart type **Grouped bar**).
 - **A red "… outside the axis range not shown" note under a chart.** Your **Y min** / **max** cut off data. Widen or clear them.
 - **log Y is greyed out.** The chart is a **Stacked bar**; use **Grouped bar**.
+- **"⚠ Not drawn" under a bracket.** One of its groups is no longer in the chart, or both ends now share one name. Pick its groups again, or remove it.
+- **Open marks along the bottom of a log axis.** Those means are 0 (every replicate 0); see Task 3.
 - **Not available yet:** an "n =" label drawn on the chart (n is in the source data, so say it in the legend), and a broken axis with a zero.
 - Something else: [troubleshooting.md](troubleshooting.md).
